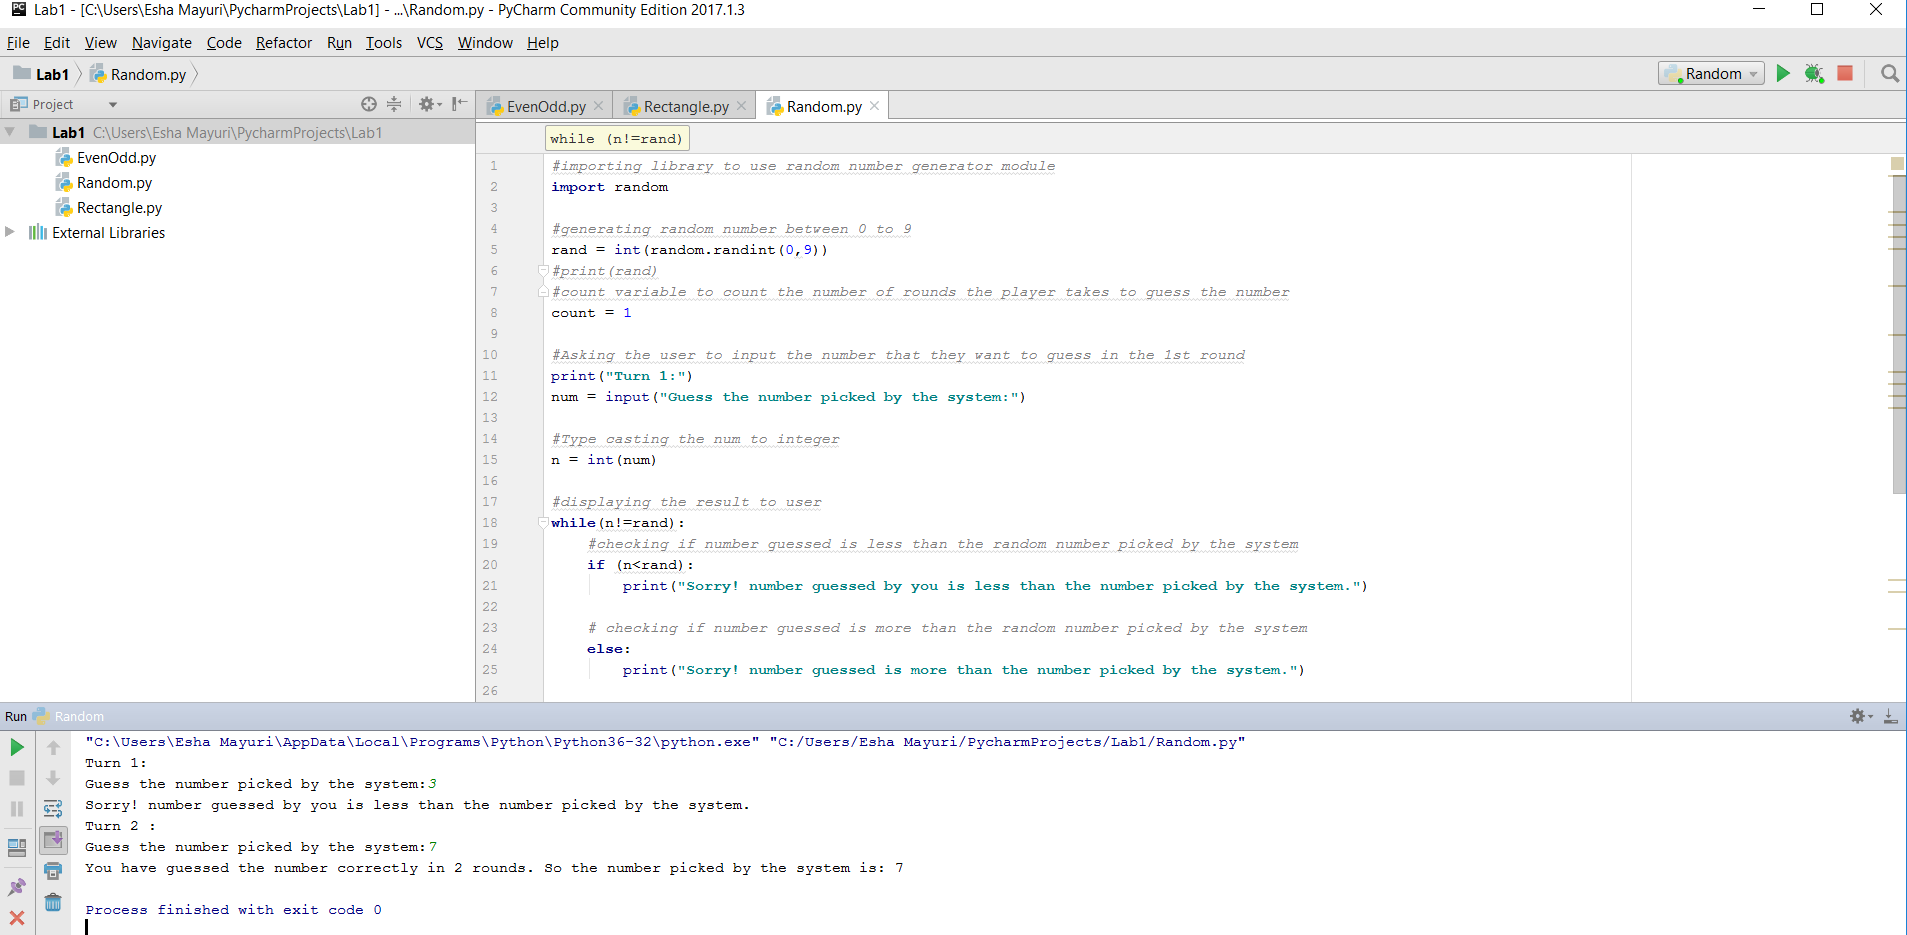
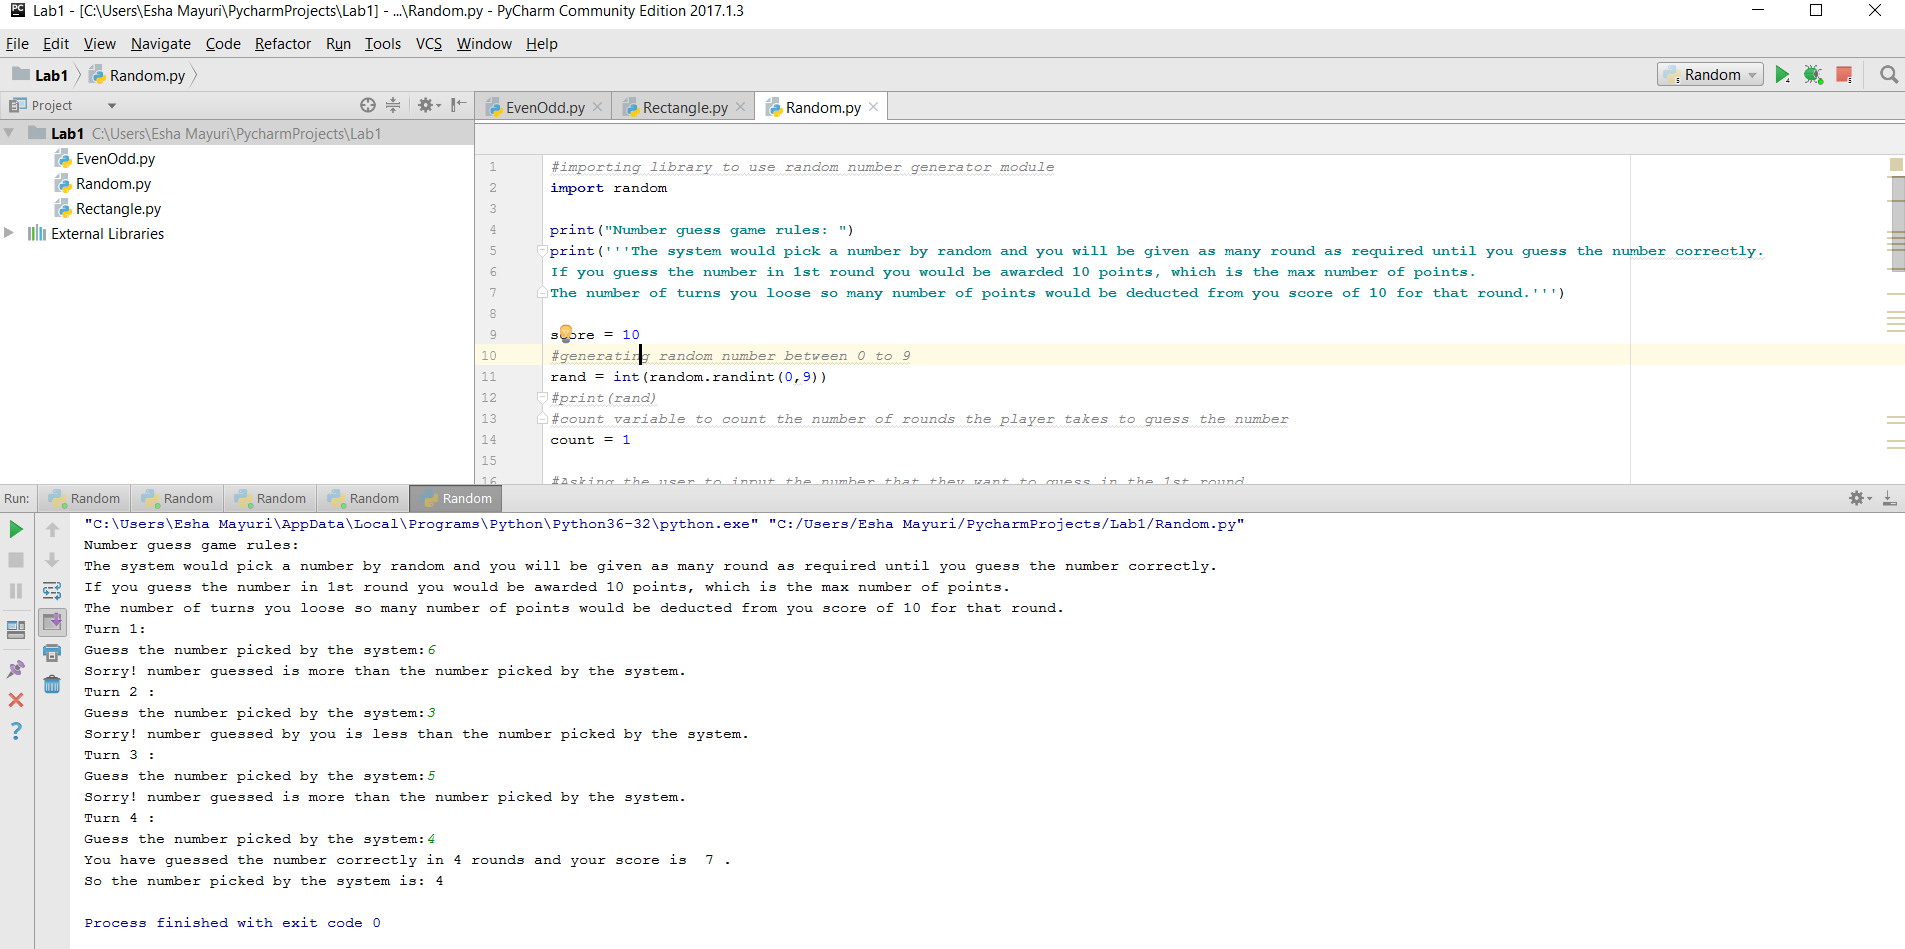
Lab 1

Changed region(s): [[0.0, 0.0, 1.0, 0.9925], [0.9911, 0.6203, 1.0, 0.6824]]

diff --git a/Lab1/Source/Random.py b/Lab1/Source/Random.py
@@ -1,6 +1,12 @@
 #importing library to use random number generator module
 import random
 
+print("Number guess game rules: ")
+print('''The system would pick a number by random and you will be given as many round as required until you guess the number correctly.
+If you guess the number in 1st round you would be awarded 10 points, which is the max number of points. 
+The number of turns you loose so many number of points would be deducted from you score of 10 for that round.''')
+
+score = 10
 #generating random number between 0 to 9
 rand = int(random.randint(0,9))
 #print(rand)
@@ -16,7 +22,6 @@ n = int(num)
 
 #displaying the result to user
 while(n!=rand):
-
     #checking if number guessed is less than the random number picked by the system
     if (n<rand):
         print("Sorry! number guessed by you is less than the number picked by the system.")
@@ -25,16 +30,18 @@ while(n!=rand):
     else:
         print("Sorry! number guessed is more than the number picked by the system.")
 
+    #incrementing the turn count
     count = count + 1
+
     # Asking the user to input the number that they have guessed
     print("Turn", count, ":")
     num = input("Guess the number picked by the system:")
 
     # Type casting the num to integer
     n = int(num)
-
 #checking if number guessed is exactly equal
 if (count == 1):
-    print("Congratulations! You have guessed the number correctly in 1 round")
+    print("Congratulations! You have guessed the number correctly in 1 round and your score is", score)
 else:
-    print("You have guessed the number correctly in", count, "rounds")
+    print("You have guessed the number correctly in", count, "rounds and your score is ",(score-count+1), ".")
+    print("So the number picked by the system is:", rand)
